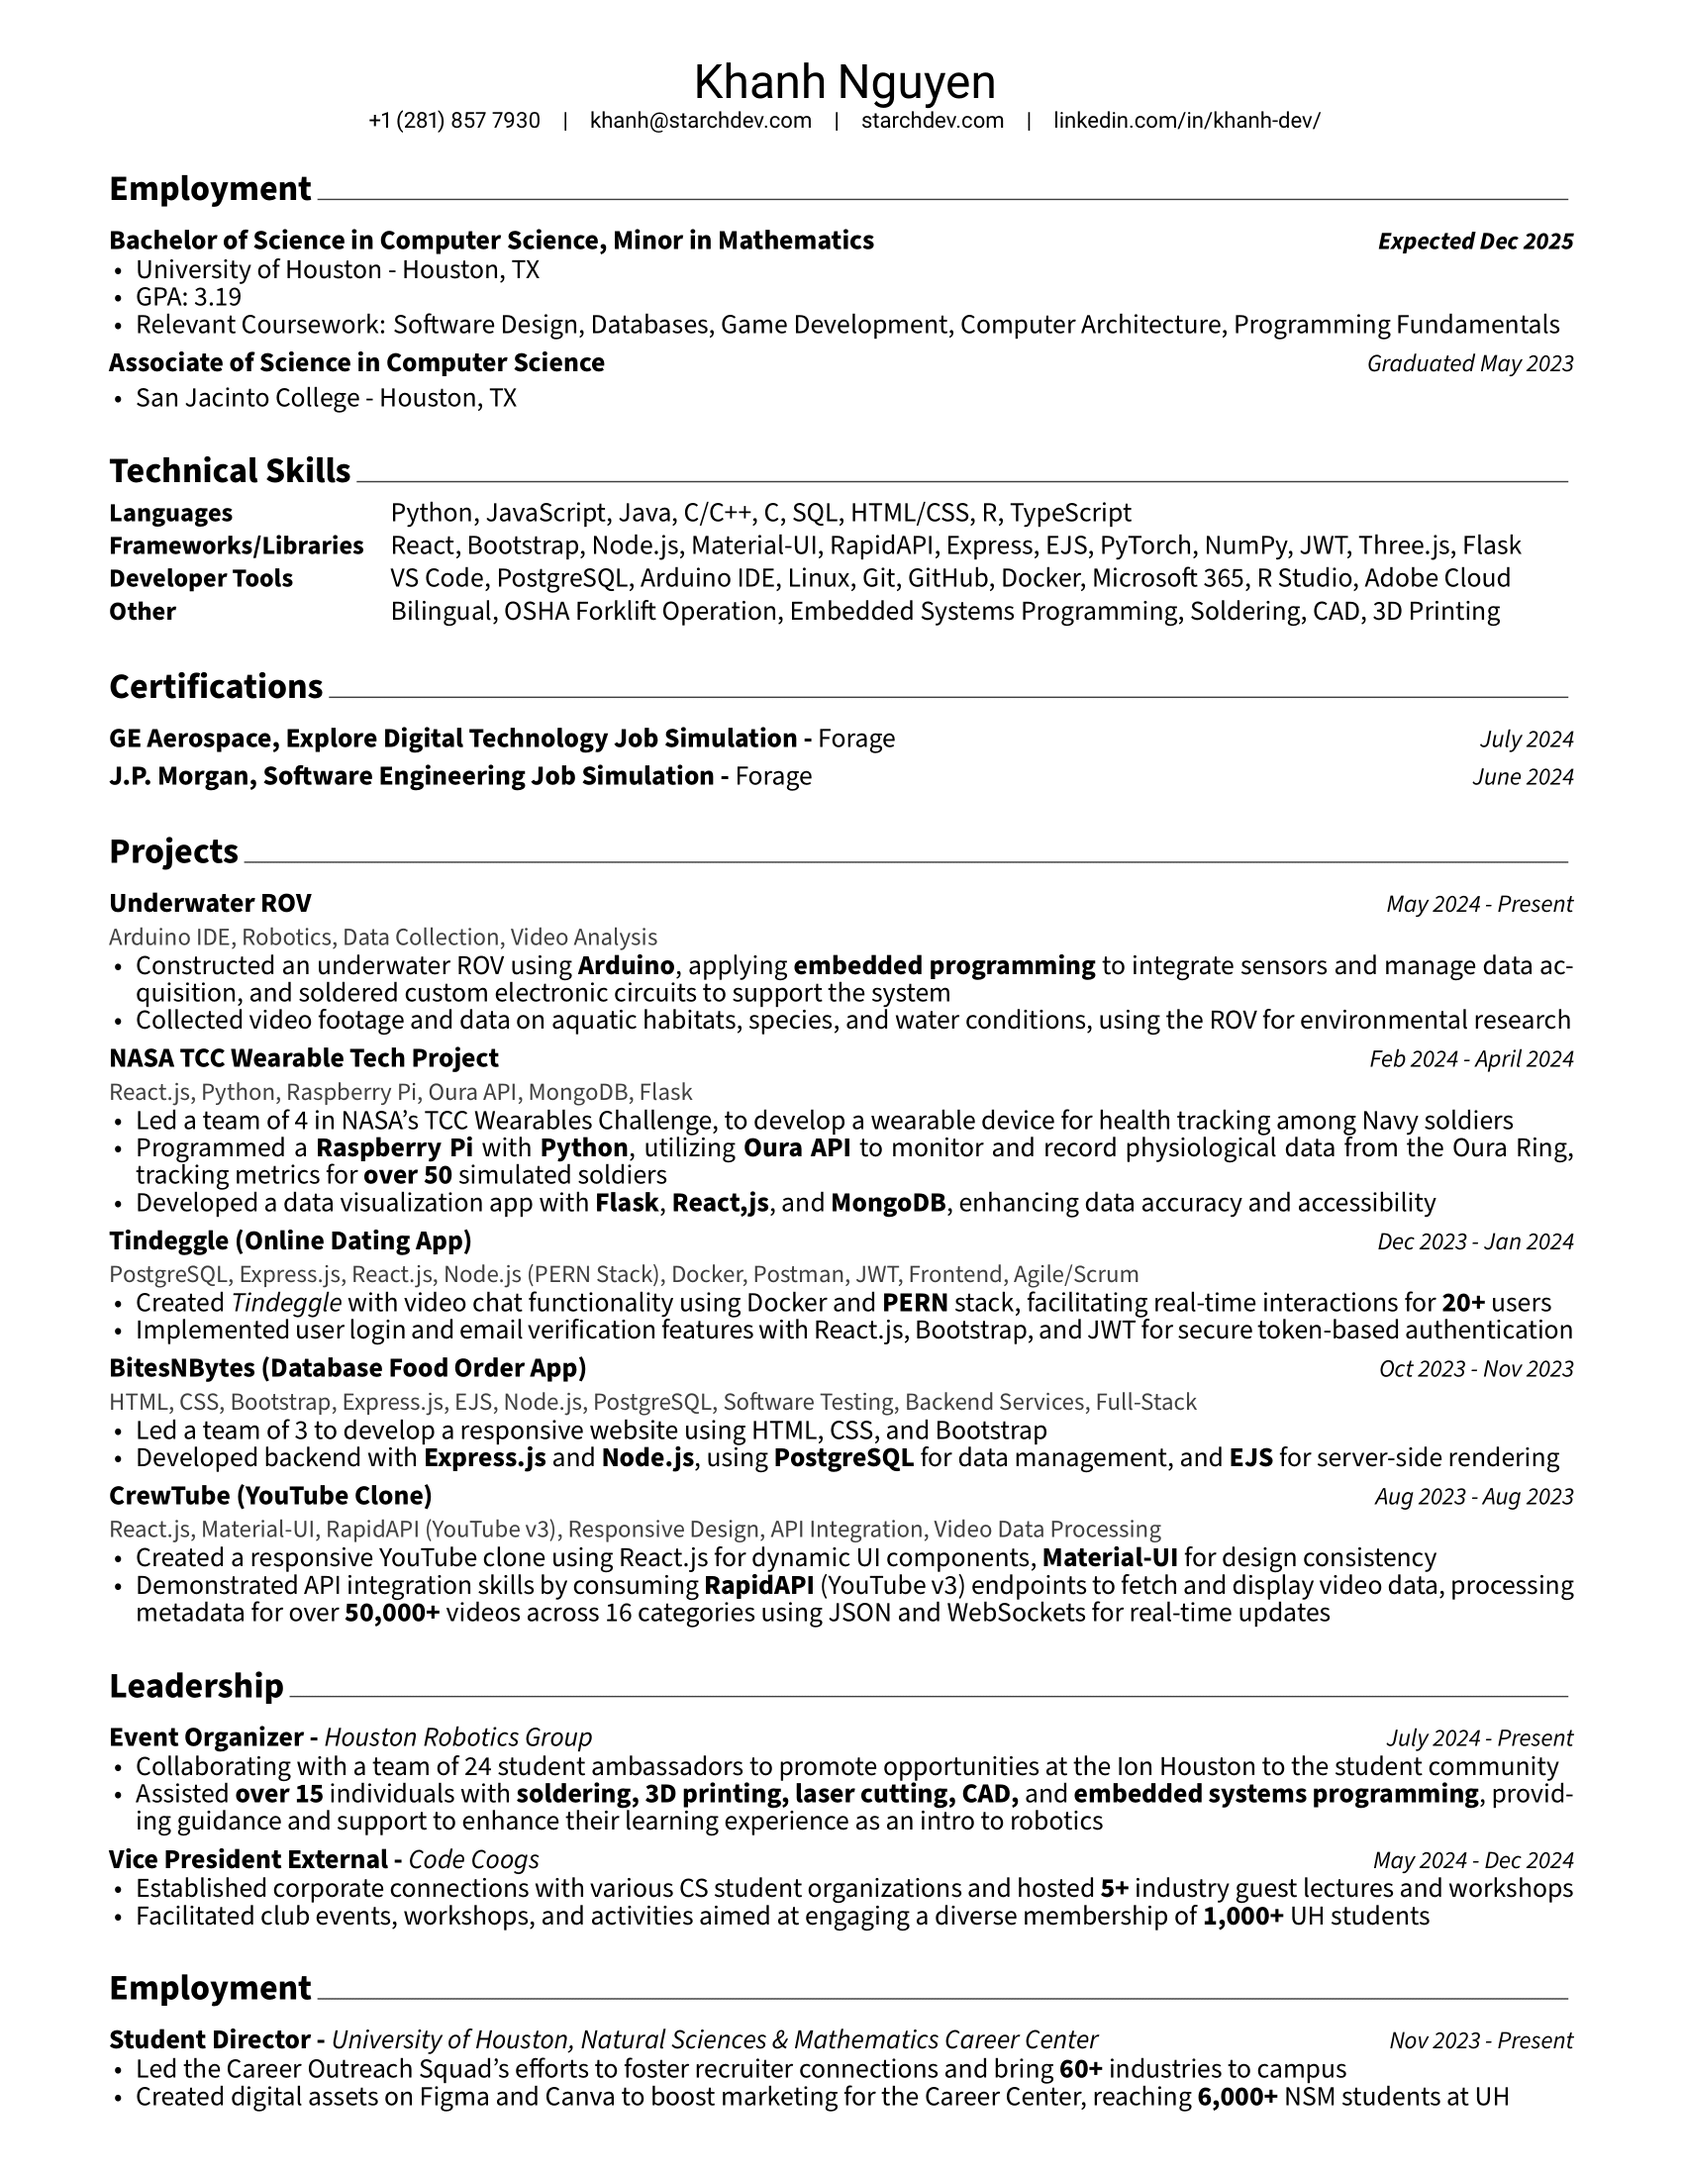
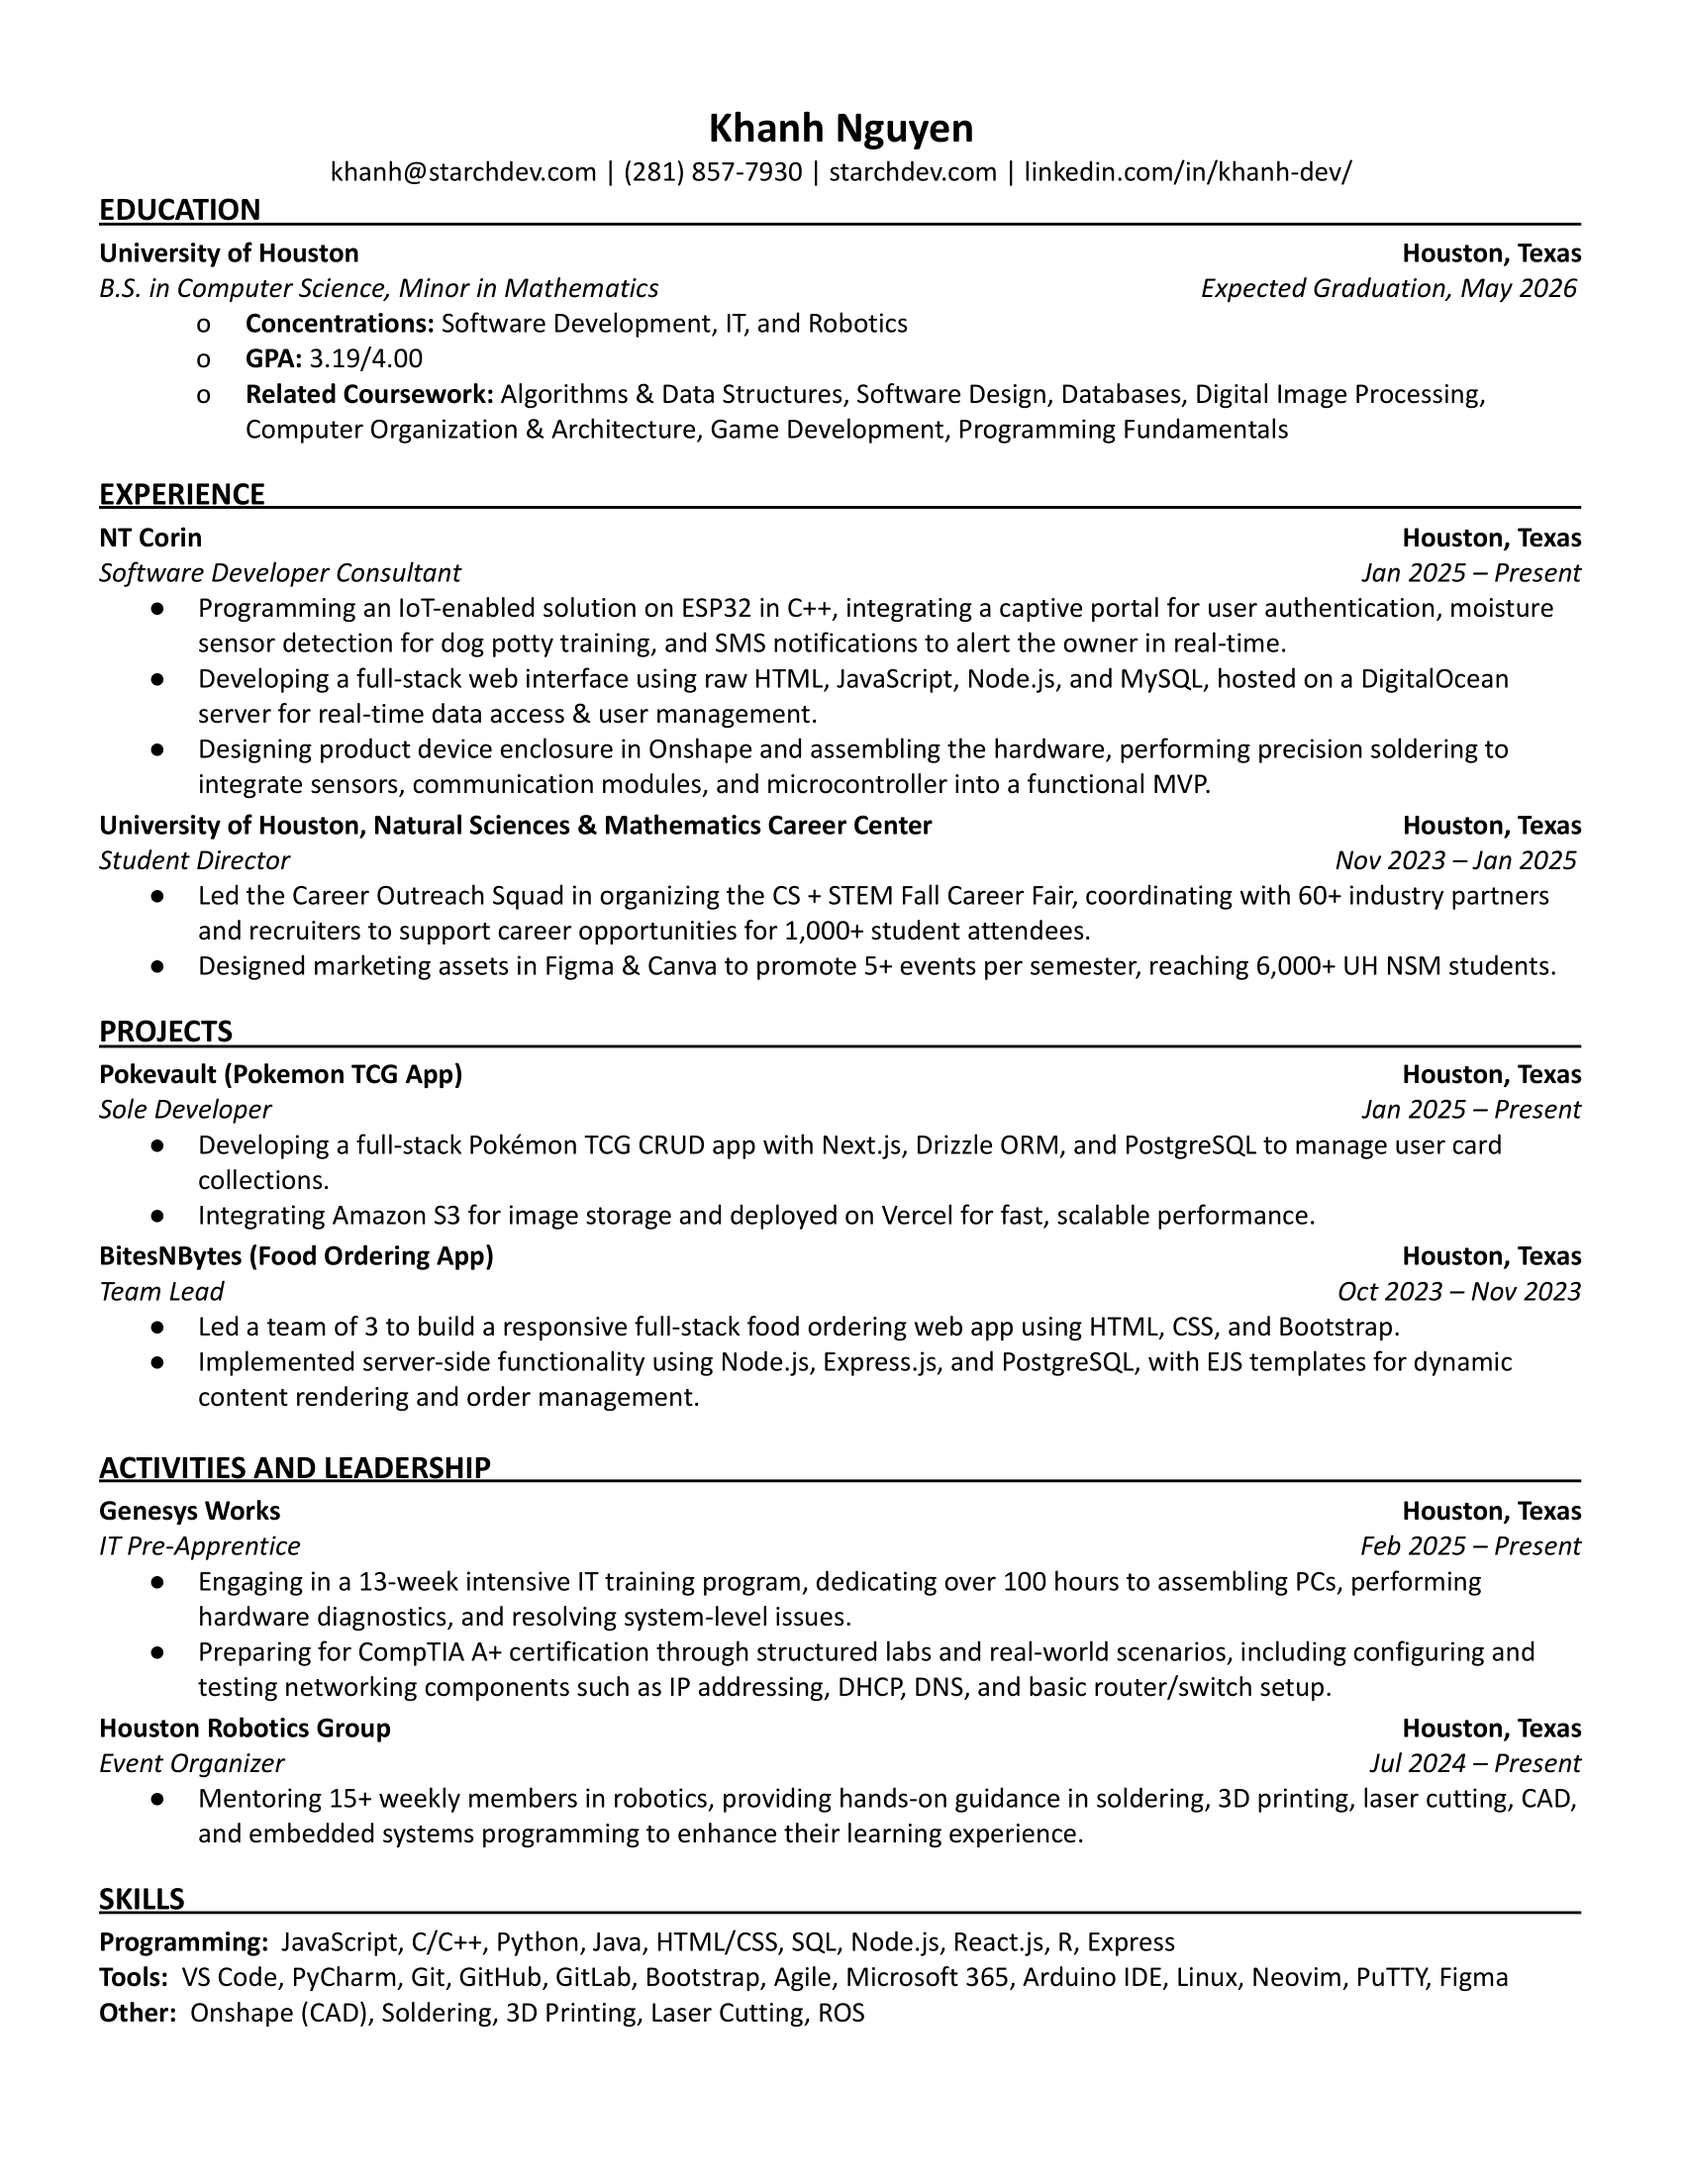
Update resume link and display

Changed region(s): [[0.0624, 0.0309, 0.9353, 0.9891]]

diff --git a/resume.html b/resume.html
@@ -58,7 +58,7 @@
     <div class="resume-container text-center m-5">
       <h1 class="projects-header text-center mb-4">My Resume</h1>
       <a
-        href="https://drive.google.com/file/d/17NOPz6yR1w-JEFjh60W-bHTWtefbFSAi/view"
+        href="https://drive.google.com/file/d/1Mw48nQyFytvXTf44TT7EBKMdFaUORNch/view?usp=sharing"
         target="_blank"
         title="Khanh Nguyen's Resume"
       >
